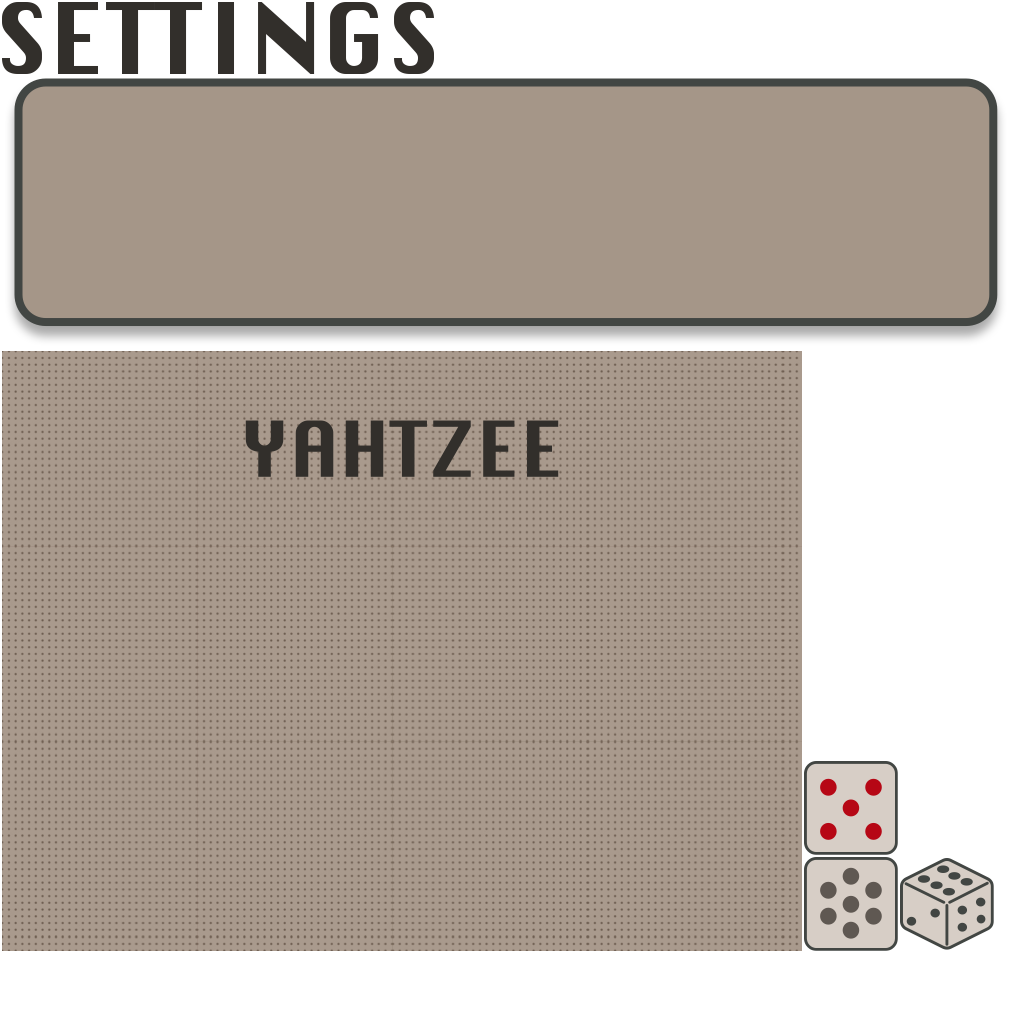
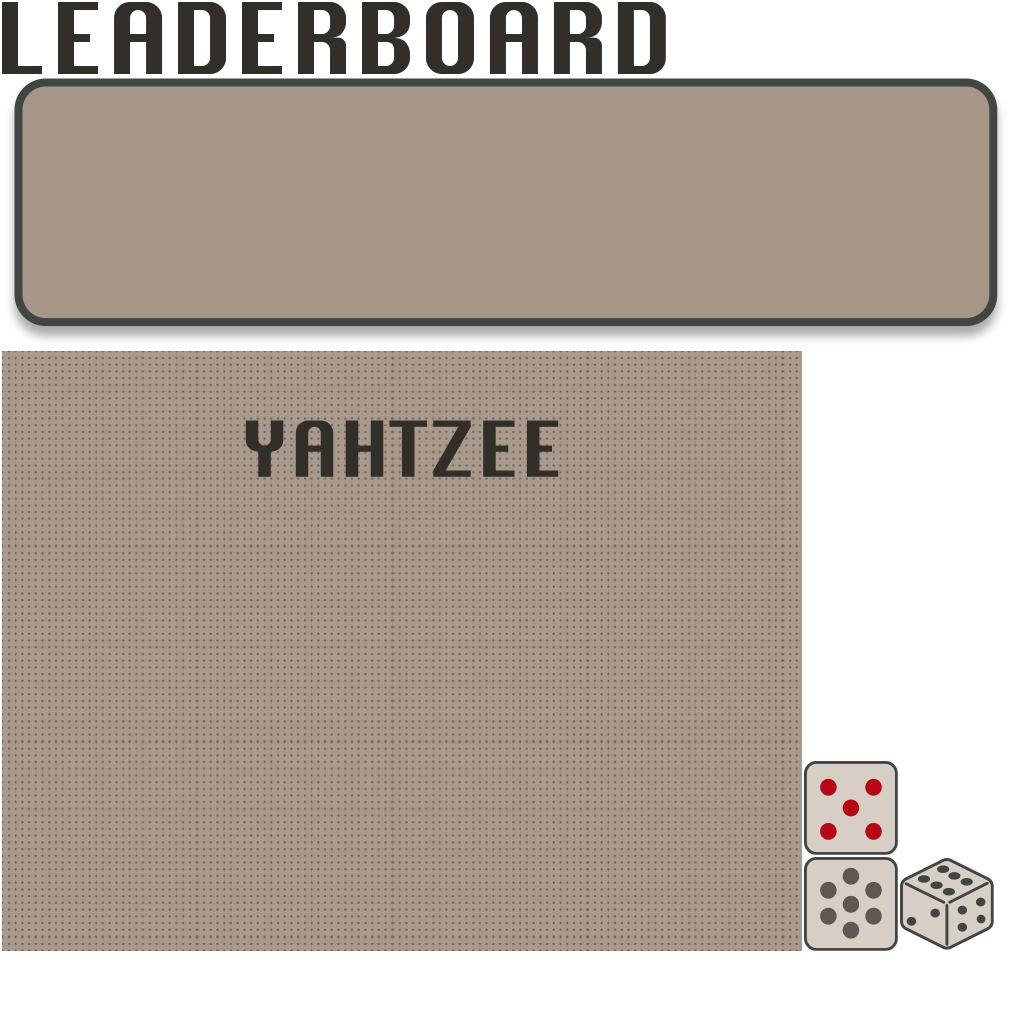
fixed the look of the scoresscreen

Changed region(s): [[0.0938, 0.0, 0.6562, 0.0938], [0.0, 0.0, 0.0625, 0.0625]]

diff --git a/core/src/feri/rri/yahtzee/screen/ScoresScreen.java b/core/src/feri/rri/yahtzee/screen/ScoresScreen.java
@@ -8,17 +8,25 @@ package feri.rri.yahtzee.screen;
         import com.badlogic.gdx.scenes.scene2d.Actor;
         import com.badlogic.gdx.scenes.scene2d.InputEvent;
         import com.badlogic.gdx.scenes.scene2d.Stage;
+        import com.badlogic.gdx.scenes.scene2d.ui.Image;
         import com.badlogic.gdx.scenes.scene2d.ui.Label;
+
         import com.badlogic.gdx.scenes.scene2d.ui.ScrollPane;
         import com.badlogic.gdx.scenes.scene2d.ui.Skin;
         import com.badlogic.gdx.scenes.scene2d.ui.Table;
         import com.badlogic.gdx.scenes.scene2d.ui.TextButton;
         import com.badlogic.gdx.scenes.scene2d.ui.TextField;
         import com.badlogic.gdx.scenes.scene2d.utils.ClickListener;
+        import com.badlogic.gdx.scenes.scene2d.utils.Drawable;
         import com.badlogic.gdx.scenes.scene2d.utils.TextureRegionDrawable;
+        import com.badlogic.gdx.utils.Align;
         import com.badlogic.gdx.utils.ScreenUtils;
         import com.badlogic.gdx.utils.viewport.FitViewport;
         import com.badlogic.gdx.utils.viewport.Viewport;
+
+        import java.util.ArrayList;
+        import java.util.Collections;
+        import java.util.List;
 
         import feri.rri.yahtzee.Yahtzee;
         import feri.rri.yahtzee.assets.AssetDescriptors;
@@ -49,9 +57,19 @@ public class ScoresScreen extends ScreenAdapter {
 
         skin = assetManager.get(AssetDescriptors.UI_SKIN);
         gameplayAtlas = assetManager.get(AssetDescriptors.GAMEPLAY);
-        Gdx.input.setInputProcessor(stage);
 
         stage.addActor(createUi());
+        Drawable quitButtonDrawable = new TextureRegionDrawable(gameplayAtlas.findRegion(RegionNames.SCORES_LABEL));
+        Label.LabelStyle labelStyle = new Label.LabelStyle();
+        labelStyle.background = quitButtonDrawable;
+        Image scoresLabel = new Image(quitButtonDrawable);
+
+        // Set the position of the image to be centered at the top of the stage
+        scoresLabel.setSize(450f,70f);
+        scoresLabel.setPosition(viewport.getWorldWidth()/ 2 - scoresLabel.getWidth() / 2, viewport.getWorldHeight() - scoresLabel.getHeight()-30f);
+
+        stage.addActor(scoresLabel);
+        Gdx.input.setInputProcessor(stage);
     }
 
     @Override
@@ -75,36 +93,54 @@ public class ScoresScreen extends ScreenAdapter {
     public void dispose() {
         stage.dispose();
     }
-// ...
 
+    public class Player implements Comparable<Player> {
+        String name;
+        int score;
+
+        public Player(String name, int score) {
+            this.name = name;
+            this.score = score;
+        }
+
+        @Override
+        public int compareTo(Player other) {
+            return other.score - this.score; // Sort in descending order
+        }
+    }
     private Actor createUi() {
         Table table = new Table();
-        table.defaults().pad(20);
+        table.defaults().pad(10);
 
-        // Add your UI elements here
-        Label titleLabel = new Label("Leaderboard", skin);
-        table.add(titleLabel).colspan(2).padBottom(30).center();
-        table.row();
-
-        // Add hardcoded scores for demonstration
-        addScoreRow(table, "Player 1", 500);
-        addScoreRow(table, "Player 2", 450);
-        addScoreRow(table, "Player 3", 600);
-        // Add more demonstration text to extend the scrollable content
+        List<Player> players = new ArrayList<>();
+        players.add(new Player("Player 1", 500));
+        players.add(new Player("Player 2", 450));
+        players.add(new Player("Player 3", 600));
         for (int i = 4; i <= 20; i++) {
-            addScoreRow(table, "Player " + i, i * 50);
+            players.add(new Player("Player " + i, i * 50));
+        }
+        Collections.sort(players);
+
+        // Add sorted players to the table
+        for (Player player : players) {
+            addScoreRow(table, player);
         }
 
         // Create a scrollable window for the leaderboard
         ScrollPane scrollPane = new ScrollPane(table, skin);
-        scrollPane.setFadeScrollBars(false);
+        scrollPane.setFadeScrollBars(true);
+        scrollPane.setScrollingDisabled(true, false);
 
         // Add the scrollable window to the stage
         Table windowTable = new Table();
-        windowTable.add(scrollPane).pad(20).expand().fill();
+        windowTable.add(scrollPane).padTop(170f).padBottom(20f).width(500f);
+        TextureRegion backgroundRegion = gameplayAtlas.findRegion(RegionNames.PLAIN_BACKGROUND);
+        windowTable.setBackground(new TextureRegionDrawable(backgroundRegion));
 
         // Add a back button to return to the main menu
         TextButton backButton = new TextButton("Back", skin);
+        backButton.getLabel().setAlignment(Align.center);
+        backButton.getLabelCell().padRight(25f);
         backButton.addListener(new ClickListener() {
             @Override
             public void clicked(InputEvent event, float x, float y) {
@@ -113,7 +149,7 @@ public class ScoresScreen extends ScreenAdapter {
         });
 
         windowTable.row();
-        windowTable.add(backButton).padTop(30).center();
+        windowTable.add(backButton).width(150f).padBottom(40f).height(70f);
 
         windowTable.setFillParent(true);
         windowTable.pack();
@@ -121,20 +157,18 @@ public class ScoresScreen extends ScreenAdapter {
         return windowTable;
     }
 
-// ...
 
-    private void addScoreRow(Table table, String playerName, int score) {
-        TextField nameTextField = new TextField(playerName, skin);
-        TextField scoreTextField = new TextField(String.valueOf(score), skin);
+    private int rankCounter = 1; // Add this field to keep track of rankings
 
-        // Set properties to make the TextField non-editable and not focused
-        nameTextField.setDisabled(true);
-        nameTextField.setFocusTraversal(false);
-        scoreTextField.setDisabled(true);
-        scoreTextField.setFocusTraversal(false);
-
-        table.add(nameTextField).padRight(20);
-        table.add(scoreTextField).padRight(20);
+    private void addScoreRow(Table table, Player player) {
+        Label rankLabel = new Label(String.valueOf(rankCounter++), skin);
+        rankLabel.setAlignment(Align.right);
+        TextField playerInfoField = new TextField(player.name + " - " + player.score, skin);
+        playerInfoField.setDisabled(true);
+        playerInfoField.getStyle().background.setLeftWidth(20);
+        playerInfoField.setFocusTraversal(false);
+        table.add(rankLabel);
+        table.add(playerInfoField).expandX().fillX();
         table.row();
     }
 

diff --git a/core/src/feri/rri/yahtzee/screen/SettingsScreen.java b/core/src/feri/rri/yahtzee/screen/SettingsScreen.java
@@ -19,6 +19,7 @@ import com.badlogic.gdx.scenes.scene2d.utils.ChangeListener;
 import com.badlogic.gdx.scenes.scene2d.utils.ClickListener;
 import com.badlogic.gdx.scenes.scene2d.utils.Drawable;
 import com.badlogic.gdx.scenes.scene2d.utils.TextureRegionDrawable;
+import com.badlogic.gdx.utils.Align;
 import com.badlogic.gdx.utils.ScreenUtils;
 import com.badlogic.gdx.utils.viewport.FitViewport;
 import com.badlogic.gdx.utils.viewport.Viewport;
@@ -126,6 +127,8 @@ public class SettingsScreen extends ScreenAdapter {
             }
         });
         TextButton backButton = new TextButton("Back", uiSkin);
+        backButton.getLabel().setAlignment(Align.center);
+        backButton.getLabelCell().padRight(3f);
         backButton.addListener(new ClickListener() {
             @Override
             public void clicked(InputEvent event, float x, float y) {
@@ -140,7 +143,7 @@ public class SettingsScreen extends ScreenAdapter {
         contentTable.setBackground(new TextureRegionDrawable(menuBackground));
         contentTable.add(soundCheckBox).row();
         contentTable.add(musicCheckBox).row();
-        contentTable.add(backButton).width(150f).padTop(50).colspan(2);
+        contentTable.add(backButton).width(150f).padBottom(40f).height(70f);
 
         table.add(contentTable).padTop(125f).padRight(100f).padLeft(100f);
         table.center();

diff --git a/core/src/feri/rri/yahtzee/assets/RegionNames.java b/core/src/feri/rri/yahtzee/assets/RegionNames.java
@@ -8,6 +8,7 @@ public class RegionNames {
     public static final String TABLE_BACKGROUND = "table-background";
     public static final String PLAIN_BACKGROUND = "background";
     public static final String LABEL_SETTINGS = "settings-label";
+    public static final String SCORES_LABEL = "scores-label";
     public static final String SETTINGS_TABLE = "settings-table";
     public static final String DICE_1 = "dice-1";
     public static final String DICE_2 = "dice-2";
